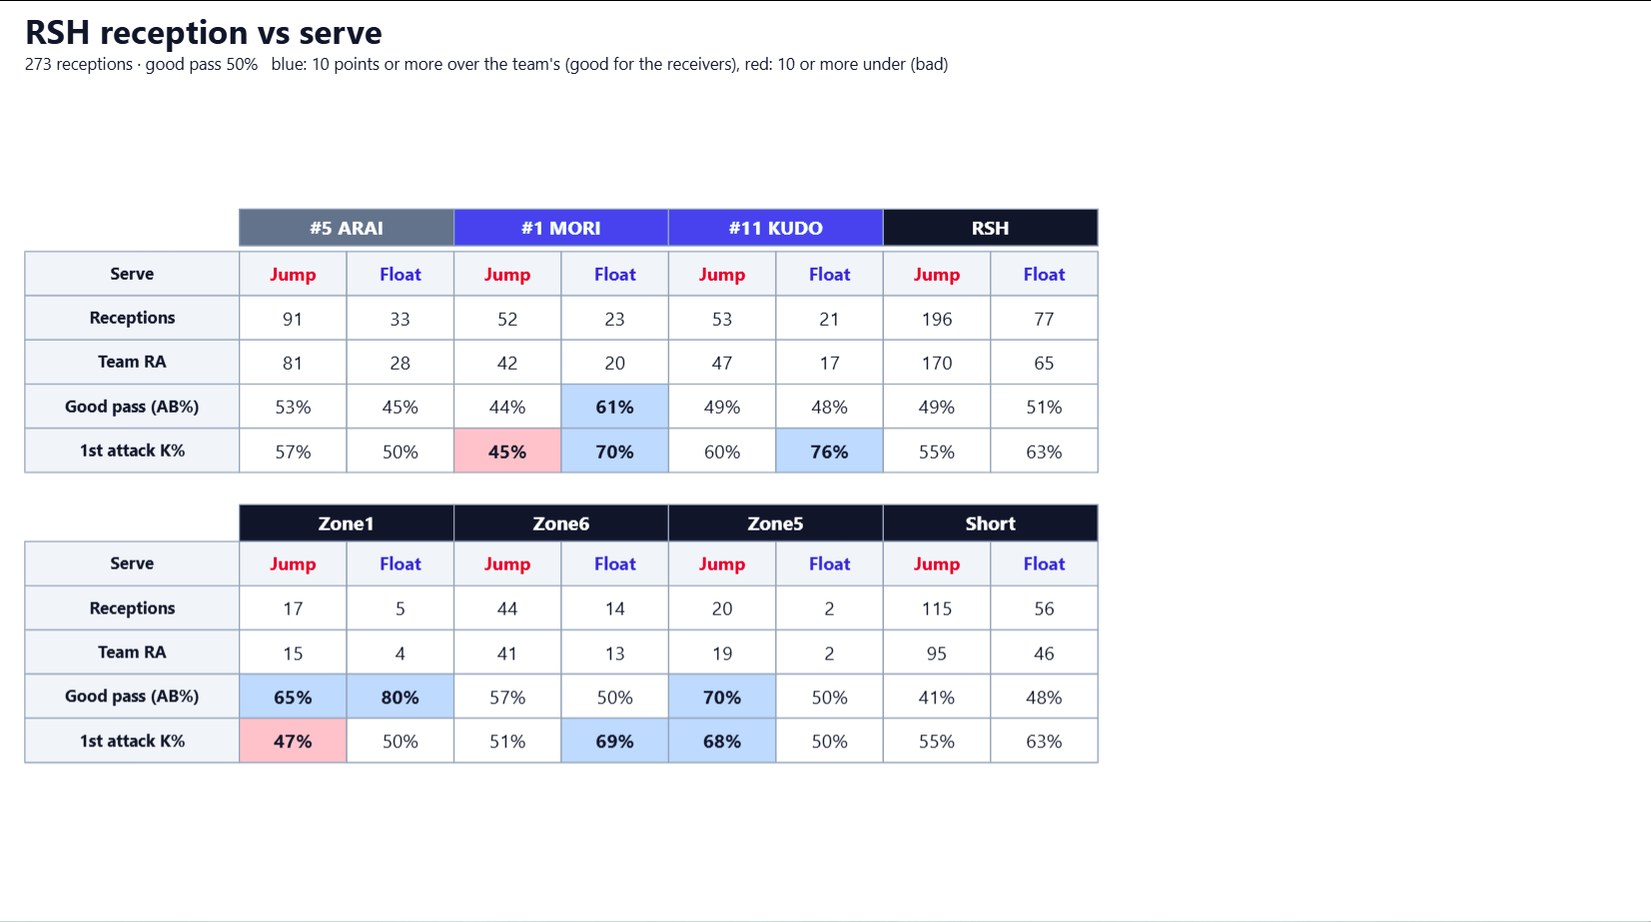
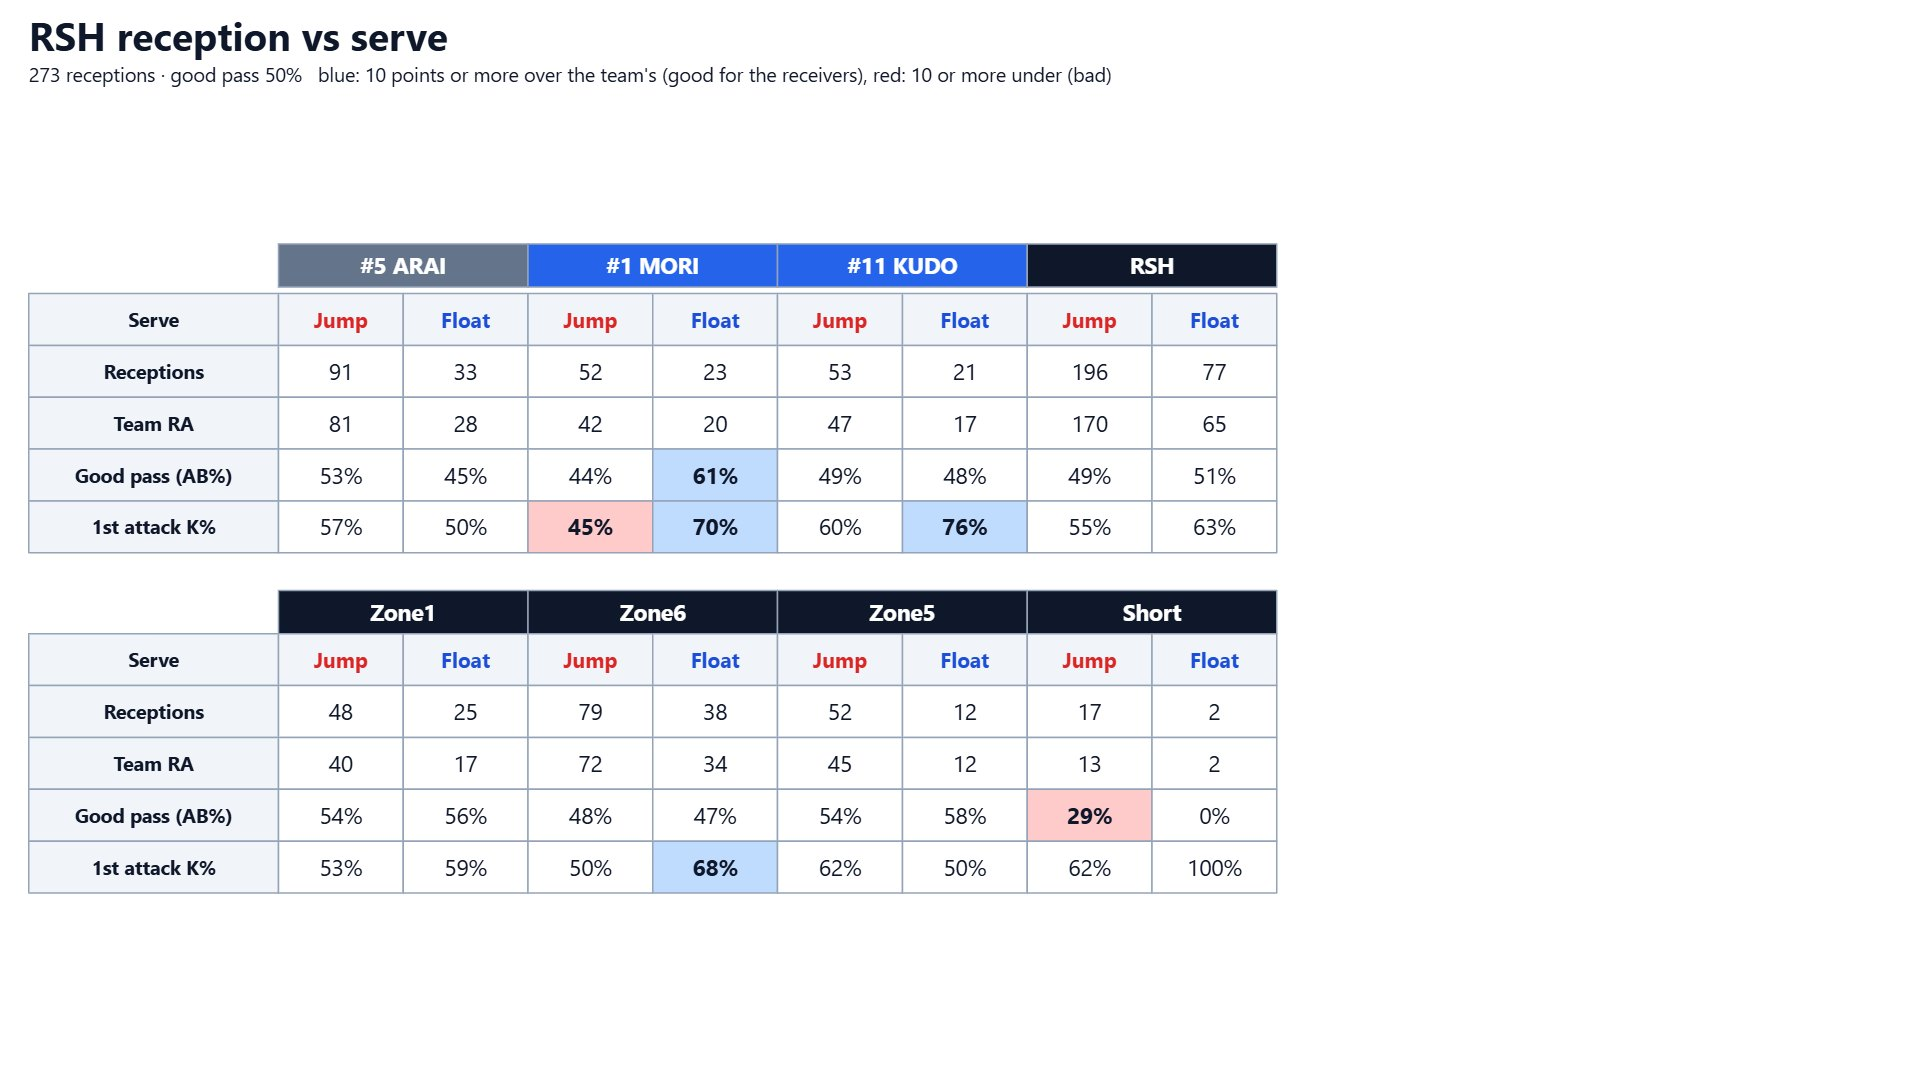
Product site: demo serves land deep, in zones 1, 6 and 5
The made-up scout files had most serves landing mid-court, which no
real team does. Serves now land about 80% in zones 1, 6 and 5 and 6%
short. Only serve and reception lines change: the old random draws are
kept and reshaped, and a separate stream picks the short serves, so
reports, analysis and the other slides stay as they are. The serve
cards and serve targets slides are made again from the new files.

diff --git a/site/ja.html b/site/ja.html
@@ -231,7 +231,7 @@
           <figcaption>サーブ・アタックのカード：1 枚に 6 人まで。数字とチャート付き。</figcaption>
         </figure>
         <figure class="frame">
-          <img src="img/slide-serve-target.jpg" width="1651" height="922" alt="サーブの狙いのスライド。受けた選手と狙ったゾーンごと、ジャンプとフローター別に、良いパスとレセプション後の決定率。" loading="lazy">
+          <img src="img/slide-serve-target.jpg" width="1920" height="1080" alt="サーブの狙いのスライド。受けた選手と狙ったゾーンごと、ジャンプとフローター別に、良いパスとレセプション後の決定率。" loading="lazy">
           <figcaption>サーブの狙い：どのサーブが相手のパスとサイドアウトを下げるか。</figcaption>
         </figure>
         <figure class="frame">

diff --git a/site/index.html b/site/index.html
@@ -232,7 +232,7 @@
           <figcaption>Serve and attack cards: up to six players, each with rates and a chart.</figcaption>
         </figure>
         <figure class="frame">
-          <img src="img/slide-serve-target.jpg" width="1651" height="922" alt="A serve target slide: a team's receptions by receiver and by target zone, jump and float apart, with good pass and first-attack kill rates." loading="lazy">
+          <img src="img/slide-serve-target.jpg" width="1920" height="1080" alt="A serve target slide: a team's receptions by receiver and by target zone, jump and float apart, with good pass and first-attack kill rates." loading="lazy">
           <figcaption>Serve targets: which serves bring the opponent's pass and side-out down.</figcaption>
         </figure>
         <figure class="frame">

diff --git a/site/source/make_demo_dvw.py b/site/source/make_demo_dvw.py
@@ -83,6 +83,7 @@ def mirror(side, u, v):
 
 def build(home, away, date, seed, spectators, hall):
     rng = random.Random(seed)
+    deep_rng = random.Random(seed * 7919)
     H, A = Team(home, rng), Team(away, rng)
     team = {'*': H, 'a': A}
     out = []
@@ -115,10 +116,16 @@ def build(home, away, date, seed, spectators, hall):
             sj = S.lineup[0]
             stype, szone, aim = S.serve[sj]
             su = {1: .84, 6: .5, 5: .16}[szone]
+            # Serves land mostly deep, in zones 1, 6 and 5 (v over .83). The draws from rng stay as
+            # they were so the rest of the match comes out the same; deep() reshapes them, and a
+            # separate stream (deep_rng) decides which of the old short serves stay short.
+            deep = lambda v: .84 + (v - .62) / .30 * .11  # the old aim, .62-.92, onto .84-.95
             tu = min(.95, max(.05, rng.gauss(aim[0], .14)))
-            tv = min(.97, max(.53, rng.gauss(aim[1], .08)))
-            if rng.random() < .25:  # short serves
-                tu, tv = rng.uniform(.1, .9), rng.uniform(.53, .64)
+            tv = min(.98, max(.53, deep(aim[1]) + (rng.gauss(aim[1], .08) - aim[1]) * .5))
+            if rng.random() < .25:  # short serves: about one in three of these stays short
+                su_, sv_ = rng.uniform(.1, .9), rng.uniform(.53, .64)
+                if deep_rng.random() < .3:
+                    tu, tv = su_, sv_
             (a0, b0), (a1, b1) = mirror(srv, su, -.04), mirror(srv, tu, tv)
             ez, es = zone(a1, b1), sub(a1, b1)
             ace = rng.random() < .06 * S.power
